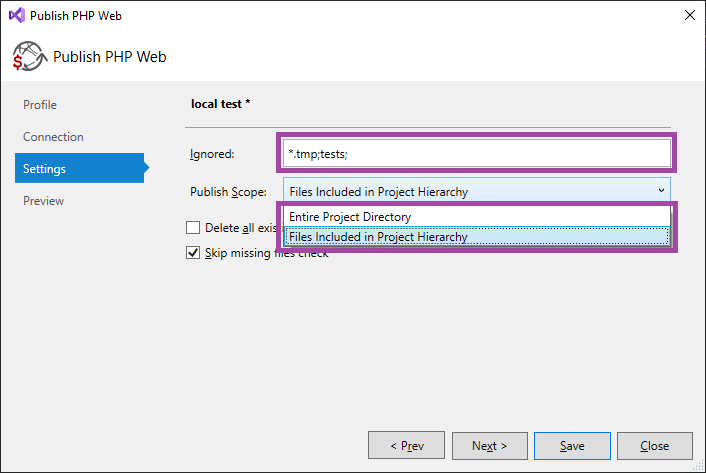
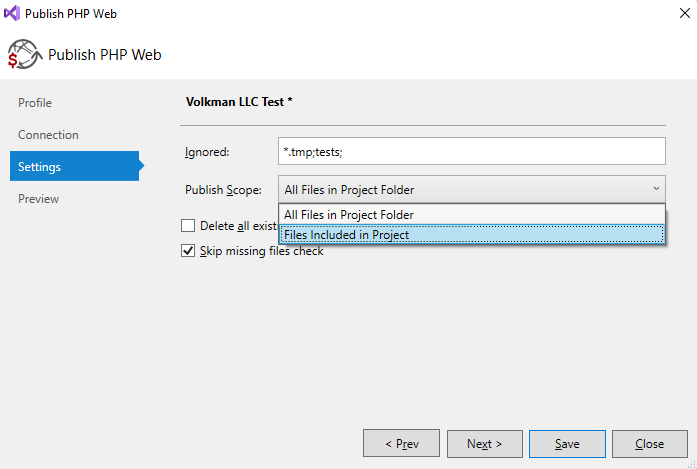
release notes

diff --git a/content/vs/releasenotes/v1-57.md b/content/vs/releasenotes/v1-57.md
@@ -35,11 +35,11 @@ Publish and the whole Remote Explorer is more configurable now. Open the [Remote
 
 It is now possible to specify wildcard file mask to simply ignore files or folders from being tracked by the Remote Explorer. Folders or files matching the *Ignored* wildcards won't be shown and won't be uploaded to the remote servers.
 
-Secondly, there is an option to choose `Publish Scope`; whether to track the whole project directory (`Entire Project Directory`) or to track files included in the project, i.e. the files shown in the project in Solution Explorer (`Files Included in Project Hierarchy`).
+Secondly, there is an option to choose `Publish Scope`; whether to track the whole project directory (`All Files in Project Folder`) or to track files included in the project, i.e. the files shown in the project in Solution Explorer (`Files Included in Project`).
 
 ![new remote profile settings](imgs/remote-profile-source-ignore.png)
 
-Finally, the Remote Explorer respects the legacy setting - **`Publishable`** - which could be set in project items properties. File items annotated with this project property are ignored by the Remote Explorer. This feature requires you to set the `Publish Scope` to `Files Included in Project Hierarchy`.
+Finally, the Remote Explorer respects the legacy setting - **`Publishable`** - which could be set in project items properties. File items annotated with this project property are ignored by the Remote Explorer. This feature requires you to set the `Publish Scope` to `Files Included in Project`.
 
 ## Fixes
 
